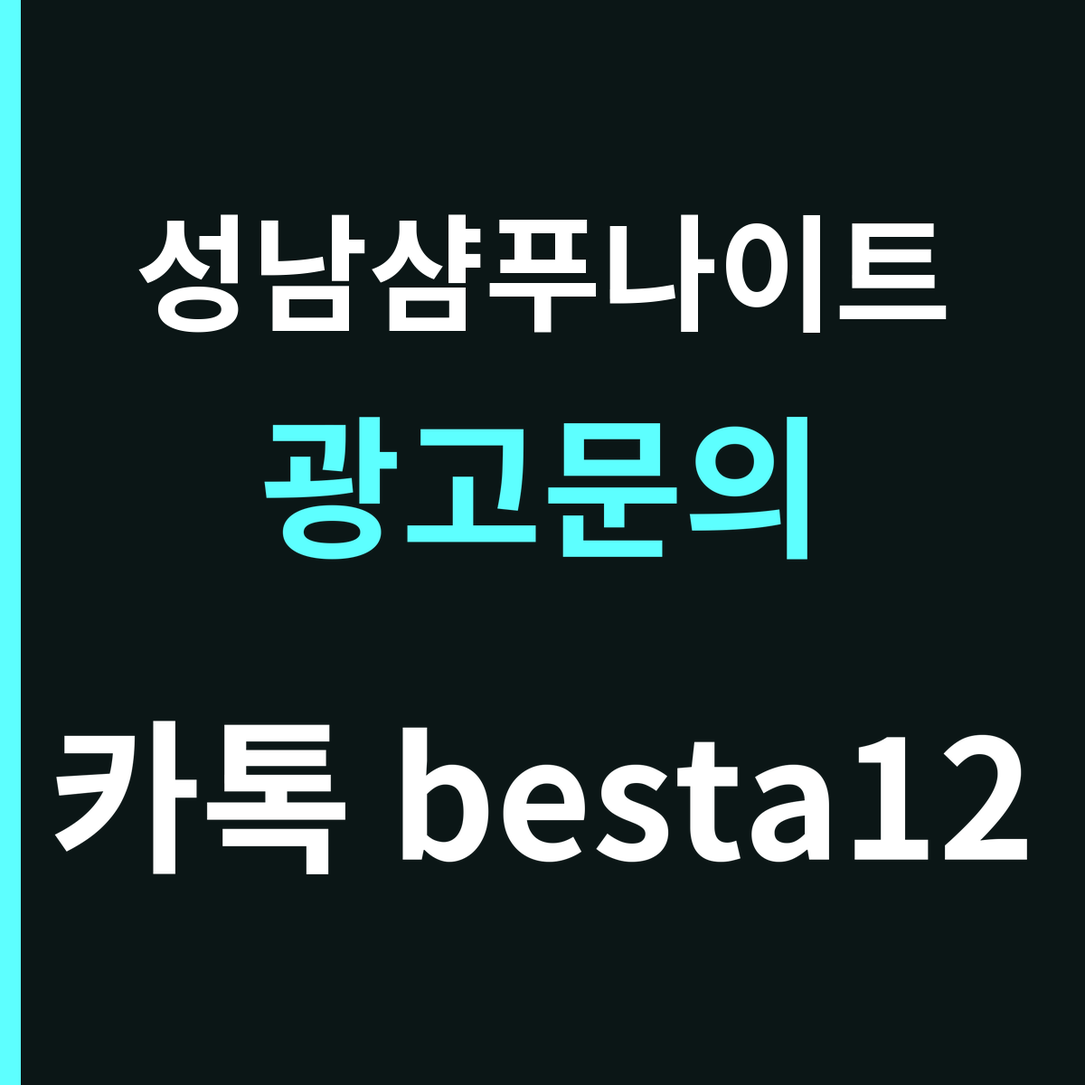
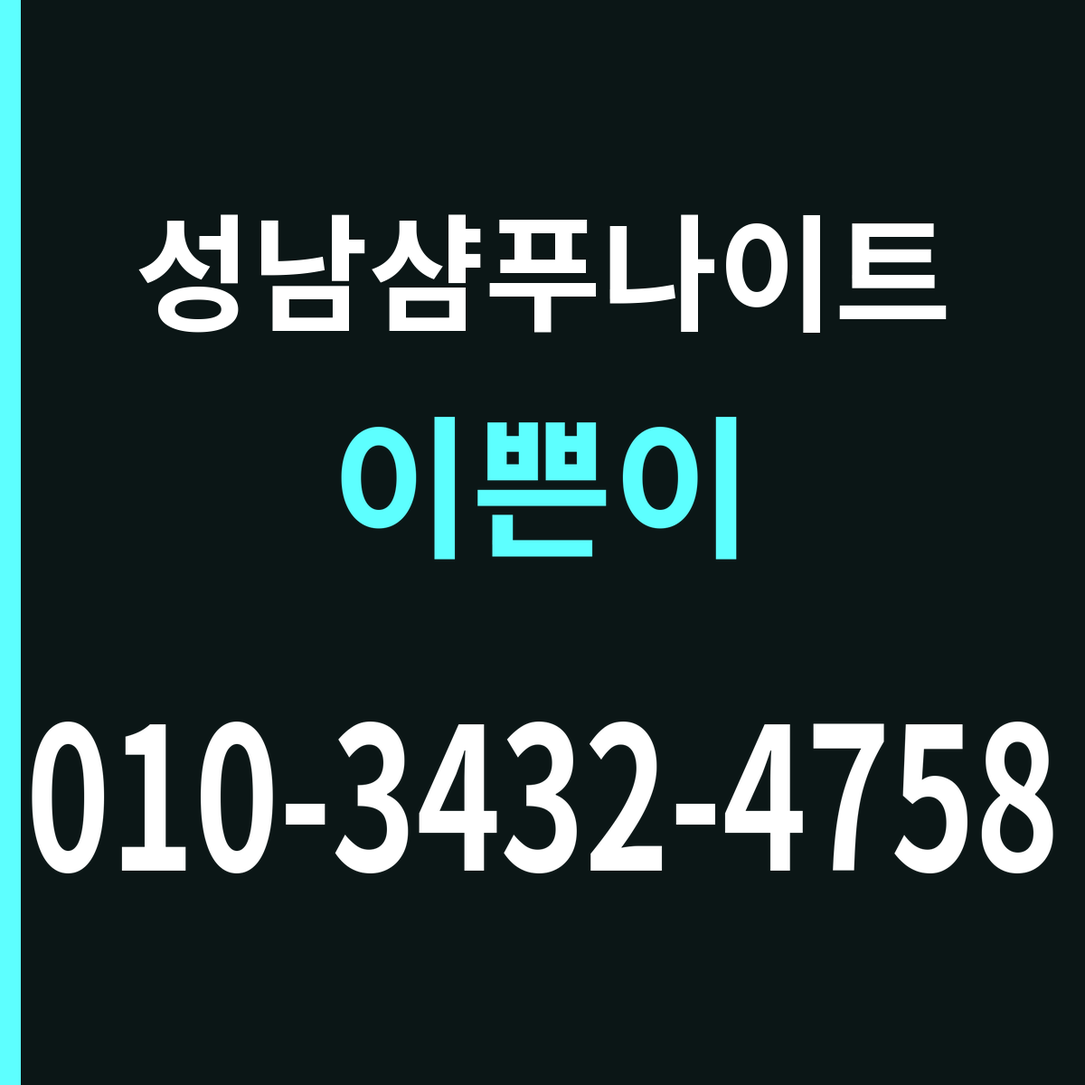
광고주 등록 — 성남샴푸나이트 이쁜이 (2026-09-04)

Changed region(s): [[0.0308, 0.6475, 0.9867, 0.8017], [0.2467, 0.37, 0.7708, 0.5242]]

diff --git a/night/seongnam-shampoo-night-1/index.html b/night/seongnam-shampoo-night-1/index.html
@@ -1,0 +1,159 @@
+<!doctype html>
+<html lang="ko">
+<head>
+<meta charset="utf-8">
+<meta name="viewport" content="width=device-width,initial-scale=1">
+<title>성남샴푸나이트 자리 잡기 전에 볼 것</title>
+<meta name="description" content="성남샴푸나이트 예약·좌석·영업시간·위치 안내. 경기 성남시 중원구 광명로 21 (성남동 3182). 문의 이쁜이 010-3432-4758">
+<link rel="canonical" href="https://n.nolcool.com/night/seongnam-shampoo-night-1/">
+<meta property="og:title" content="성남샴푸나이트 자리 잡기 전에 볼 것">
+<meta property="og:description" content="성남샴푸나이트 이용 안내 · 성남시 중원구">
+<meta property="og:type" content="article">
+<meta property="og:url" content="https://n.nolcool.com/night/seongnam-shampoo-night-1/">
+<script type="application/ld+json">{"@context":"https://schema.org","@type":"NightClub","name":"성남샴푸나이트","address":{"@type":"PostalAddress","streetAddress":"경기 성남시 중원구 광명로 21 (성남동 3182)","addressLocality":"성남시 중원구","addressCountry":"KR"},"telephone":"+82-10-3432-4758","openingHours":"Mo-Su 19:00-05:00","url":"https://n.nolcool.com/night/seongnam-shampoo-night-1/"}</script>
+<script type="application/ld+json">{"@context":"https://schema.org","@type":"FAQPage","mainEntity":[{"@type":"Question","name":"성남샴푸나이트 며칠 전에 연락드리면 되나요?","acceptedAnswer":{"@type":"Answer","text":"주말이라면 한 주 전쯤, 평일이라면 이삼 일 전이면 넉넉합니다. 성남샴푸나이트 이용이 처음이라면 이 항목부터 보십시오. 이 정도만 알아 두셔도 성남샴푸나이트 이용에는 충분합니다."}},{"@type":"Question","name":"기념일 자리도 되나요?","acceptedAnswer":{"@type":"Answer","text":"날짜와 인원만 정해 주시면 준비해 드립니다. 일행이 있으시면 성남샴푸나이트 에 미리 맞춰 두시면 편합니다. 특히 주말 성남샴푸나이트 는 이 부분에서 차이가 납니다."}},{"@type":"Question","name":"연락처가 어떻게 되나요?","acceptedAnswer":{"@type":"Answer","text":"010-3432-4758 (이쁜이) 로 전화 주시면 됩니다. 자세한 것은 성남샴푸나이트 방문 전에 확인해 두시는 편이 안전합니다. 모르시면 성남샴푸나이트 에 전화로 물어보는 편이 빠릅니다."}},{"@type":"Question","name":"여성 손님도 많나요?","acceptedAnswer":{"@type":"Answer","text":"성남시 중원구 쪽은 시간대별로 분위기가 갈립니다. 초저녁과 심야가 다릅니다. 성남샴푸나이트 를 처음 찾으시는 분들이 특히 많이 묻습니다. 성남샴푸나이트 가 처음이라 걱정하실 필요는 없습니다."}},{"@type":"Question","name":"드레스코드가 있나요?","acceptedAnswer":{"@type":"Answer","text":"반바지나 슬리퍼는 피하시는 편이 안전합니다. 헷갈리시면 성남샴푸나이트 로 전화해 물어보시는 것이 가장 빠릅니다. 성남시 중원구 는 시간대에 따라 조금씩 달라집니다."}},{"@type":"Question","name":"어떤 안내를 받을 수 있나요?","acceptedAnswer":{"@type":"Answer","text":"처음 오셨다면 말씀만 하시면 필요한 것을 안내해 줍니다. 성남샴푸나이트 사정에 따라 달라질 수 있으니 참고만 하십시오. 성남샴푸나이트 자리 사정은 그날 상황을 따릅니다."}},{"@type":"Question","name":"예약이 됐는지 어떻게 아나요?","acceptedAnswer":{"@type":"Answer","text":"이쁜이 010-3432-4758 로 연락하시면 확인해 드립니다. 성남시 중원구 를 찾는 분들이 이 점을 놓쳐 아쉬워하는 경우가 많습니다. 작은 차이가 성남샴푸나이트 에서의 만족을 크게 바꿉니다."}},{"@type":"Question","name":"성남샴푸나이트 방문 시간은 언제가 좋나요?","acceptedAnswer":{"@type":"Answer","text":"7시부터 열지만 분위기가 오르는 것은 밤 10시쯤부터입니다. 성남시 중원구 쪽은 사람이 몰리는 날 여유를 두시는 편이 좋습니다. 같이 가시는 분들과 성남샴푸나이트 일정을 미리 맞춰 두십시오."}},{"@type":"Question","name":"분위기가 어떤가요?","acceptedAnswer":{"@type":"Answer","text":"시간대에 따라 분위기가 달라집니다. 이 부분만 정해 두셔도 성남샴푸나이트 방문 준비는 거의 끝납니다. 일정이 정해지면 성남샴푸나이트 에 바로 말씀해 주십시오."}},{"@type":"Question","name":"연령 기준을 알려주세요","acceptedAnswer":{"@type":"Answer","text":"연령 확인 절차가 있습니다. 신분증 없이는 어렵습니다. 성남시 중원구 안에서도 곳마다 사정이 다릅니다. 준비물은 많지 않으니 성남샴푸나이트 방문에 부담 갖지 않으셔도 됩니다."}},{"@type":"Question","name":"성남샴푸나이트 보관 시설이 있나요?","acceptedAnswer":{"@type":"Answer","text":"성남샴푸나이트 는 방문 시 안내해 드립니다. 귀중품은 직접 챙기시는 편이 좋습니다. 성남샴푸나이트 는 늦은 시간에 상황이 달라질 수 있습니다. 성남샴푸나이트 현장에서 다시 물어보셔도 안내해 드립니다."}},{"@type":"Question","name":"어떤 자리가 좋은가요?","acceptedAnswer":{"@type":"Answer","text":"처음 오셨다면 중간 자리가 무난합니다. 미리 정해 두면 성남샴푸나이트 에서 그날 시간을 아낄 수 있습니다. 이 점을 알고 가시면 성남샴푸나이트 이용이 훨씬 수월합니다."}},{"@type":"Question","name":"성남샴푸나이트 예약 안 하면 못 들어가나요?","acceptedAnswer":{"@type":"Answer","text":"꼭 해야 하는 것은 아니지만, 자리를 고르고 싶으시면 예약이 훨씬 낫습니다. 성남샴푸나이트 이용이 처음이라면 이 항목부터 보십시오. 가시기 전에 성남샴푸나이트 에 한 번만 확인해 두시면 됩니다."}},{"@type":"Question","name":"당일 방문이 가능한가요?","acceptedAnswer":{"@type":"Answer","text":"성남샴푸나이트 는 당일 방문도 받습니다. 자리를 고르기는 어려울 수 있습니다. 일행이 있으시면 성남샴푸나이트 에 미리 맞춰 두시면 편합니다. 무엇보다 성남샴푸나이트 에 미리 연락해 두는 것이 편합니다."}},{"@type":"Question","name":"좌석 위치가 중요한가요?","acceptedAnswer":{"@type":"Answer","text":"성남샴푸나이트 는 자리마다 분위기가 갈립니다. 조용한 쪽을 원하시면 미리 알려주세요. 자세한 것은 성남샴푸나이트 방문 전에 확인해 두시는 편이 안전합니다. 이 정도만 알아 두셔도 성남샴푸나이트 이용에는 충분합니다."}},{"@type":"Question","name":"현금만 받나요?","acceptedAnswer":{"@type":"Answer","text":"현장 안내를 따르시면 됩니다. 미리 확인해 두십시오. 성남샴푸나이트 를 처음 찾으시는 분들이 특히 많이 묻습니다. 특히 주말 성남샴푸나이트 는 이 부분에서 차이가 납니다."}},{"@type":"Question","name":"한 명이어도 되나요?","acceptedAnswer":{"@type":"Answer","text":"혼자 오시는 분도 있습니다. 다만 자리 배정이 달라질 수 있습니다. 헷갈리시면 성남샴푸나이트 로 전화해 물어보시는 것이 가장 빠릅니다. 모르시면 성남샴푸나이트 에 전화로 물어보는 편이 빠릅니다."}},{"@type":"Question","name":"주의할 점이 있나요?","acceptedAnswer":{"@type":"Answer","text":"신분증, 인원, 도착 시간 이 세 가지만 정해 두시면 됩니다. 성남샴푸나이트 사정에 따라 달라질 수 있으니 참고만 하십시오. 성남샴푸나이트 가 처음이라 걱정하실 필요는 없습니다."}},{"@type":"Question","name":"다른 자리로 갈 수 있나요?","acceptedAnswer":{"@type":"Answer","text":"자리 사정을 봐서 안내해 드립니다. 성남시 중원구 를 찾는 분들이 이 점을 놓쳐 아쉬워하는 경우가 많습니다. 성남시 중원구 는 시간대에 따라 조금씩 달라집니다."}},{"@type":"Question","name":"새벽에도 들어갈 수 있나요?","acceptedAnswer":{"@type":"Answer","text":"자리가 남아 있으면 가능합니다. 성남샴푸나이트 에 미리 연락해 두시면 확실합니다. 성남시 중원구 쪽은 사람이 몰리는 날 여유를 두시는 편이 좋습니다. 성남샴푸나이트 자리 사정은 그날 상황을 따릅니다."}}]}</script>
+<script type="application/ld+json">{"@context":"https://schema.org","@type":"BreadcrumbList","itemListElement":[{"@type":"ListItem","position":1,"name":"홈","item":"https://n.nolcool.com/"},{"@type":"ListItem","position":2,"name":"나이트 안내","item":"https://n.nolcool.com/night/"},{"@type":"ListItem","position":3,"name":"성남샴푸나이트","item":"https://n.nolcool.com/night/seongnam-shampoo-night-1/"}]}</script>
+<style>
+:root{--bg:#0d0f14;--ink:#e8ecf2;--dim:#c3ccd8;--line:#212734;--key:#7fd3ff}
+*{box-sizing:border-box}
+body{margin:0;background:var(--bg);color:var(--ink);font-family:'Malgun Gothic','맑은 고딕',sans-serif;line-height:1.8}
+.wrap{max-width:760px;margin:0 auto;padding:28px 18px 130px}
+nav.bc{font-size:13px;color:#8fa3bd;margin-bottom:16px}
+nav.bc a{color:#8fa3bd;text-decoration:none}
+h1{font-size:25px;line-height:1.4;margin:0 0 16px}
+.lead{color:var(--dim);margin:0 0 22px}
+table{width:100%;border-collapse:collapse;margin:0 0 26px}
+th,td{padding:11px 8px;border-bottom:1px solid var(--line);text-align:left;font-size:15px}
+th{color:#8fa3bd;width:32%;font-weight:600}
+.qa{margin:0 0 20px}
+.qa h2{font-size:17px;margin:0 0 6px;color:var(--key)}
+.qa p{margin:0;color:var(--dim)}
+h2.more{font-size:18px;margin:34px 0 10px;color:var(--key)}
+ul{margin:0;padding-left:18px}
+li{margin:0 0 7px}
+a{color:var(--key)}
+.bar{position:fixed;left:0;right:0;bottom:0;background:#1b6ef3;padding:15px;text-align:center;font-size:18px;font-weight:700}
+.bar a{color:#fff;text-decoration:none}
+</style>
+
+<meta property="og:image" content="https://n.nolcool.com/og/auto-seongnam-shampoo.png" />
+<meta property="og:image:width" content="1200" />
+<meta property="og:image:height" content="1200" />
+</head>
+<body>
+<div class="wrap" id="main">
+<nav class="bc"><a href="/">홈</a> › <a href="/night/">안내 목록</a> › 성남샴푸나이트</nav>
+<h1>성남샴푸나이트 자리 잡기 전에 볼 것</h1>
+<img src="/og/auto-seongnam-shampoo.png" width="1200" height="1200" alt="성남샴푸나이트 예약문의 이쁜이 010-3432-4758" decoding="async" style="display:block;width:100%;max-width:520px;height:auto;margin:0 auto 18px" />
+
+<p class="lead">성남시 중원구에 있는 성남샴푸나이트의 이용 안내입니다. 궁금한 것부터 찾아보십시오.</p>
+
+<table>
+<tr><th>이름</th><td>성남샴푸나이트</td></tr>
+<tr><th>있는 자리</th><td>경기 성남시 중원구 광명로 21 (성남동 3182)</td></tr>
+<tr><th>시군구</th><td>성남시 중원구</td></tr>
+<tr><th>문 여는 시간</th><td>19:00 시작 · 05:00 마감</td></tr>
+<tr><th>물어보기</th><td>이쁜이 010-3432-4758</td></tr>
+</table>
+
+<section class="qa">
+<h2>성남샴푸나이트 며칠 전에 연락드리면 되나요?</h2>
+<p>주말이라면 한 주 전쯤, 평일이라면 이삼 일 전이면 넉넉합니다. 성남샴푸나이트 이용이 처음이라면 이 항목부터 보십시오. 이 정도만 알아 두셔도 성남샴푸나이트 이용에는 충분합니다.</p>
+</section>
+<section class="qa">
+<h2>기념일 자리도 되나요?</h2>
+<p>날짜와 인원만 정해 주시면 준비해 드립니다. 일행이 있으시면 성남샴푸나이트 에 미리 맞춰 두시면 편합니다. 특히 주말 성남샴푸나이트 는 이 부분에서 차이가 납니다.</p>
+</section>
+<section class="qa">
+<h2>연락처가 어떻게 되나요?</h2>
+<p>010-3432-4758 (이쁜이) 로 전화 주시면 됩니다. 자세한 것은 성남샴푸나이트 방문 전에 확인해 두시는 편이 안전합니다. 모르시면 성남샴푸나이트 에 전화로 물어보는 편이 빠릅니다.</p>
+</section>
+<section class="qa">
+<h2>여성 손님도 많나요?</h2>
+<p>성남시 중원구 쪽은 시간대별로 분위기가 갈립니다. 초저녁과 심야가 다릅니다. 성남샴푸나이트 를 처음 찾으시는 분들이 특히 많이 묻습니다. 성남샴푸나이트 가 처음이라 걱정하실 필요는 없습니다.</p>
+</section>
+<section class="qa">
+<h2>드레스코드가 있나요?</h2>
+<p>반바지나 슬리퍼는 피하시는 편이 안전합니다. 헷갈리시면 성남샴푸나이트 로 전화해 물어보시는 것이 가장 빠릅니다. 성남시 중원구 는 시간대에 따라 조금씩 달라집니다.</p>
+</section>
+<section class="qa">
+<h2>어떤 안내를 받을 수 있나요?</h2>
+<p>처음 오셨다면 말씀만 하시면 필요한 것을 안내해 줍니다. 성남샴푸나이트 사정에 따라 달라질 수 있으니 참고만 하십시오. 성남샴푸나이트 자리 사정은 그날 상황을 따릅니다.</p>
+</section>
+<section class="qa">
+<h2>예약이 됐는지 어떻게 아나요?</h2>
+<p>이쁜이 010-3432-4758 로 연락하시면 확인해 드립니다. 성남시 중원구 를 찾는 분들이 이 점을 놓쳐 아쉬워하는 경우가 많습니다. 작은 차이가 성남샴푸나이트 에서의 만족을 크게 바꿉니다.</p>
+</section>
+<section class="qa">
+<h2>성남샴푸나이트 방문 시간은 언제가 좋나요?</h2>
+<p>7시부터 열지만 분위기가 오르는 것은 밤 10시쯤부터입니다. 성남시 중원구 쪽은 사람이 몰리는 날 여유를 두시는 편이 좋습니다. 같이 가시는 분들과 성남샴푸나이트 일정을 미리 맞춰 두십시오.</p>
+</section>
+<section class="qa">
+<h2>분위기가 어떤가요?</h2>
+<p>시간대에 따라 분위기가 달라집니다. 이 부분만 정해 두셔도 성남샴푸나이트 방문 준비는 거의 끝납니다. 일정이 정해지면 성남샴푸나이트 에 바로 말씀해 주십시오.</p>
+</section>
+<section class="qa">
+<h2>연령 기준을 알려주세요</h2>
+<p>연령 확인 절차가 있습니다. 신분증 없이는 어렵습니다. 성남시 중원구 안에서도 곳마다 사정이 다릅니다. 준비물은 많지 않으니 성남샴푸나이트 방문에 부담 갖지 않으셔도 됩니다.</p>
+</section>
+<section class="qa">
+<h2>성남샴푸나이트 보관 시설이 있나요?</h2>
+<p>성남샴푸나이트 는 방문 시 안내해 드립니다. 귀중품은 직접 챙기시는 편이 좋습니다. 성남샴푸나이트 는 늦은 시간에 상황이 달라질 수 있습니다. 성남샴푸나이트 현장에서 다시 물어보셔도 안내해 드립니다.</p>
+</section>
+<section class="qa">
+<h2>어떤 자리가 좋은가요?</h2>
+<p>처음 오셨다면 중간 자리가 무난합니다. 미리 정해 두면 성남샴푸나이트 에서 그날 시간을 아낄 수 있습니다. 이 점을 알고 가시면 성남샴푸나이트 이용이 훨씬 수월합니다.</p>
+</section>
+<section class="qa">
+<h2>성남샴푸나이트 예약 안 하면 못 들어가나요?</h2>
+<p>꼭 해야 하는 것은 아니지만, 자리를 고르고 싶으시면 예약이 훨씬 낫습니다. 성남샴푸나이트 이용이 처음이라면 이 항목부터 보십시오. 가시기 전에 성남샴푸나이트 에 한 번만 확인해 두시면 됩니다.</p>
+</section>
+<section class="qa">
+<h2>당일 방문이 가능한가요?</h2>
+<p>성남샴푸나이트 는 당일 방문도 받습니다. 자리를 고르기는 어려울 수 있습니다. 일행이 있으시면 성남샴푸나이트 에 미리 맞춰 두시면 편합니다. 무엇보다 성남샴푸나이트 에 미리 연락해 두는 것이 편합니다.</p>
+</section>
+<section class="qa">
+<h2>좌석 위치가 중요한가요?</h2>
+<p>성남샴푸나이트 는 자리마다 분위기가 갈립니다. 조용한 쪽을 원하시면 미리 알려주세요. 자세한 것은 성남샴푸나이트 방문 전에 확인해 두시는 편이 안전합니다. 이 정도만 알아 두셔도 성남샴푸나이트 이용에는 충분합니다.</p>
+</section>
+<section class="qa">
+<h2>현금만 받나요?</h2>
+<p>현장 안내를 따르시면 됩니다. 미리 확인해 두십시오. 성남샴푸나이트 를 처음 찾으시는 분들이 특히 많이 묻습니다. 특히 주말 성남샴푸나이트 는 이 부분에서 차이가 납니다.</p>
+</section>
+<section class="qa">
+<h2>한 명이어도 되나요?</h2>
+<p>혼자 오시는 분도 있습니다. 다만 자리 배정이 달라질 수 있습니다. 헷갈리시면 성남샴푸나이트 로 전화해 물어보시는 것이 가장 빠릅니다. 모르시면 성남샴푸나이트 에 전화로 물어보는 편이 빠릅니다.</p>
+</section>
+<section class="qa">
+<h2>주의할 점이 있나요?</h2>
+<p>신분증, 인원, 도착 시간 이 세 가지만 정해 두시면 됩니다. 성남샴푸나이트 사정에 따라 달라질 수 있으니 참고만 하십시오. 성남샴푸나이트 가 처음이라 걱정하실 필요는 없습니다.</p>
+</section>
+<section class="qa">
+<h2>다른 자리로 갈 수 있나요?</h2>
+<p>자리 사정을 봐서 안내해 드립니다. 성남시 중원구 를 찾는 분들이 이 점을 놓쳐 아쉬워하는 경우가 많습니다. 성남시 중원구 는 시간대에 따라 조금씩 달라집니다.</p>
+</section>
+<section class="qa">
+<h2>새벽에도 들어갈 수 있나요?</h2>
+<p>자리가 남아 있으면 가능합니다. 성남샴푸나이트 에 미리 연락해 두시면 확실합니다. 성남시 중원구 쪽은 사람이 몰리는 날 여유를 두시는 편이 좋습니다. 성남샴푸나이트 자리 사정은 그날 상황을 따릅니다.</p>
+</section>
+
+<h2 class="more">한 줄 정리</h2>
+<p class="lead">성남샴푸나이트 방문을 앞두고 계시다면 위 항목을 한 번 훑어보시기 바랍니다. 연락은 이쁜이 010-3432-4758 입니다.</p>
+
+<h2 class="more">근처 다른 안내</h2>
+<ul>
+<li>· <a href="/night/changwon-lululala-night/">창원룰루랄라나이트</a></li>
+<li>· <a href="/night/sangbong-hangukgwan-night/">상봉동한국관나이트</a></li>
+<li>· <a href="/night/dapsimni-miracle-night/">답십리미라클나이트</a></li>
+<li>· <a href="/night/daejeon-seven-night/">대전세븐나이트</a></li>
+<li>· <a href="/night/ulsan-champion-night/">울산챔피언나이트</a></li>
+<li>· <a href="/night/suyu-shampoo-night/">수유샴푸나이트</a></li>
+<li>· <a href="/night/busan-asiad-night/">부산아시아드나이트</a></li>
+<li>· <a href="/night/bulgwang-hobak-night/">불광동호박나이트</a></li>
+<li>· <a href="/night/sillim-grandprix-night/">신림그랑프리나이트</a></li>
+<li><a href="/night/">나이트 안내 전체 목록</a></li>
+</ul>
+</div>
+<div class="bar"><a href="tel:01034324758">📞 상담 이쁜이 010-3432-4758</a></div>
+</body>
+</html>

diff --git a/night/seongnam-shampoo-night/index.html b/night/seongnam-shampoo-night/index.html
@@ -10,8 +10,8 @@
 <meta property="og:description" content="성남샴푸나이트 예약·좌석·영업시간·위치 안내. 경기 성남시 중원구 광명로 21 (성남동 3182) 성남샴푸나이트 기본 정보와 자주 묻는 질문 안내드립니다.">
 <meta property="og:type" content="article">
 <meta property="og:url" content="https://n.nolcool.com/night/seongnam-shampoo-night/">
-<script type="application/ld+json">{"@context":"https://schema.org","@type":"NightClub","name":"성남샴푸나이트","address":{"@type":"PostalAddress","streetAddress":"경기 성남시 중원구 광명로 21 (성남동 3182)","addressLocality":"경기 성남시","addressCountry":"KR"},"openingHours":"Mo-Su 19:00-05:00","url":"https://n.nolcool.com/night/seongnam-shampoo-night/"}</script>
-<script type="application/ld+json">{"@context":"https://schema.org","@type":"FAQPage","mainEntity":[{"@type":"Question","name":"대기 순서가 있나요?","acceptedAnswer":{"@type":"Answer","text":"평일에는 대기가 거의 생기지 않습니다. 주말 심야는 생깁니다."}},{"@type":"Question","name":"처음 오는 사람에게 조언을 주세요","acceptedAnswer":{"@type":"Answer","text":"광고 문의처 에게 처음이라고 말씀하시면 자세히 안내해 드립니다. 많이 챙길 것 없습니다."}},{"@type":"Question","name":"성남샴푸나이트 쉬는 날이 정해져 있나요?","acceptedAnswer":{"@type":"Answer","text":"방문하실 날짜를 말씀해 주시면 그날 상황을 알려 드립니다. 날짜별로 안내드립니다."}},{"@type":"Question","name":"배정 기준이 있나요?","acceptedAnswer":{"@type":"Answer","text":"기준은 인원과 도착 시각, 예약 여부입니다. 권해 드립니다."}},{"@type":"Question","name":"분위기가 어느 층에 맞나요?","acceptedAnswer":{"@type":"Answer","text":"분위기가 궁금하시면 카카오톡 besta12 로 물어보십시오. 분위기가 매번 다릅니다."}},{"@type":"Question","name":"비흡연자도 괜찮을까요?","acceptedAnswer":{"@type":"Answer","text":"규정이 궁금하시면 카카오톡 besta12 로 미리 물어보십시오. 정해진 곳에서만 피우십시오."}},{"@type":"Question","name":"짐은 어디에 두나요?","acceptedAnswer":{"@type":"Answer","text":"무엇을 어디에 두실지 헷갈리시면 물어보시면 됩니다. 자리를 넉넉히 잡아 드립니다."}},{"@type":"Question","name":"성남샴푸나이트 나이 확인을 하나요?","acceptedAnswer":{"@type":"Answer","text":"나이 확인 절차가 있어 증명할 것이 있어야 합니다. 입구에서 확인합니다."}},{"@type":"Question","name":"새벽까지 하나요?","acceptedAnswer":{"@type":"Answer","text":"요일에 따라 마감이 조금씩 다를 수 있습니다. 그날 사정에 따릅니다."}},{"@type":"Question","name":"성남샴푸나이트 몇 명까지 들어가나요?","acceptedAnswer":{"@type":"Answer","text":"단체가 들어갈 수 있는지는 미리 확인이 필요합니다. 미리 말씀하시면 조율합니다."}},{"@type":"Question","name":"처음이라 도움이 필요한데 가능한가요?","acceptedAnswer":{"@type":"Answer","text":"처음 오셨다면 말씀만 하시면 필요한 것을 안내해 줍니다. 요청은 편하게 하십시오."}},{"@type":"Question","name":"전화하면 재촉하시나요?","acceptedAnswer":{"@type":"Answer","text":"재촉하지 않습니다. 궁금한 것만 확인하고 끊으셔도 됩니다. 재촉하지 않습니다."}},{"@type":"Question","name":"인원에 따라 자리가 달라지나요?","acceptedAnswer":{"@type":"Answer","text":"인원에 따라 권해 드리는 구역이 달라집니다. 도착 시간도 맞추십시오."}},{"@type":"Question","name":"성남샴푸나이트 시간대별 진행이 다른가요?","acceptedAnswer":{"@type":"Answer","text":"그날 진행이 궁금하시면 카카오톡 besta12 로 물어보십시오. 떨어진 자리는 대화에 좋습니다."}},{"@type":"Question","name":"성남샴푸나이트 더운 날에 가도 괜찮나요?","acceptedAnswer":{"@type":"Answer","text":"더운 날에도 실내는 쾌적하게 유지됩니다. 방문에 무리 없습니다."}},{"@type":"Question","name":"이 지역 특징이 있나요?","acceptedAnswer":{"@type":"Answer","text":"이 지역은 늦은 시간까지 사람이 있는 편입니다. 천천히 정하셔도 됩니다."}},{"@type":"Question","name":"혼자 방문해도 되나요?","acceptedAnswer":{"@type":"Answer","text":"혼자시라면 통로 쪽이 드나들기 편합니다. 혼자 오시는 분도 많습니다."}},{"@type":"Question","name":"지방에서 올라가도 되나요?","acceptedAnswer":{"@type":"Answer","text":"귀가 방법까지 미리 정해 두시는 편이 좋습니다. 미리 잡아 두시길 권합니다."}},{"@type":"Question","name":"성남샴푸나이트 사진이 잘 나오는 편인가요?","acceptedAnswer":{"@type":"Answer","text":"사진을 남기실 계획이면 밝은 쪽이 유리합니다. 진행에 따라 바뀌기도 합니다."}},{"@type":"Question","name":"성남샴푸나이트 미리 내야 하는 금액이 있나요?","acceptedAnswer":{"@type":"Answer","text":"금액은 이용 방식에 따라 달라집니다. 카카오톡 besta12 로 문의해 주십시오. 담당자가 정확합니다."}}]}</script>
+<script type="application/ld+json">{"@context":"https://schema.org","@type":"NightClub","name":"성남샴푸나이트","telephone":"+82-10-3432-4758","address":{"@type":"PostalAddress","streetAddress":"경기 성남시 중원구 광명로 21 (성남동 3182)","addressLocality":"경기 성남시","addressCountry":"KR"},"openingHours":"Mo-Su 19:00-05:00","url":"https://n.nolcool.com/night/seongnam-shampoo-night/"}</script>
+<script type="application/ld+json">{"@context":"https://schema.org","@type":"FAQPage","mainEntity":[{"@type":"Question","name":"대기 순서가 있나요?","acceptedAnswer":{"@type":"Answer","text":"평일에는 대기가 거의 생기지 않습니다. 주말 심야는 생깁니다."}},{"@type":"Question","name":"처음 오는 사람에게 조언을 주세요","acceptedAnswer":{"@type":"Answer","text":"광고 문의처 에게 처음이라고 말씀하시면 자세히 안내해 드립니다. 많이 챙길 것 없습니다."}},{"@type":"Question","name":"성남샴푸나이트 쉬는 날이 정해져 있나요?","acceptedAnswer":{"@type":"Answer","text":"방문하실 날짜를 말씀해 주시면 그날 상황을 알려 드립니다. 날짜별로 안내드립니다."}},{"@type":"Question","name":"배정 기준이 있나요?","acceptedAnswer":{"@type":"Answer","text":"기준은 인원과 도착 시각, 예약 여부입니다. 권해 드립니다."}},{"@type":"Question","name":"분위기가 어느 층에 맞나요?","acceptedAnswer":{"@type":"Answer","text":"분위기가 궁금하시면 이쁜이 010-3432-4758 로 물어보십시오. 분위기가 매번 다릅니다."}},{"@type":"Question","name":"비흡연자도 괜찮을까요?","acceptedAnswer":{"@type":"Answer","text":"규정이 궁금하시면 이쁜이 010-3432-4758 로 미리 물어보십시오. 정해진 곳에서만 피우십시오."}},{"@type":"Question","name":"짐은 어디에 두나요?","acceptedAnswer":{"@type":"Answer","text":"무엇을 어디에 두실지 헷갈리시면 물어보시면 됩니다. 자리를 넉넉히 잡아 드립니다."}},{"@type":"Question","name":"성남샴푸나이트 나이 확인을 하나요?","acceptedAnswer":{"@type":"Answer","text":"나이 확인 절차가 있어 증명할 것이 있어야 합니다. 입구에서 확인합니다."}},{"@type":"Question","name":"새벽까지 하나요?","acceptedAnswer":{"@type":"Answer","text":"요일에 따라 마감이 조금씩 다를 수 있습니다. 그날 사정에 따릅니다."}},{"@type":"Question","name":"성남샴푸나이트 몇 명까지 들어가나요?","acceptedAnswer":{"@type":"Answer","text":"단체가 들어갈 수 있는지는 미리 확인이 필요합니다. 미리 말씀하시면 조율합니다."}},{"@type":"Question","name":"처음이라 도움이 필요한데 가능한가요?","acceptedAnswer":{"@type":"Answer","text":"처음 오셨다면 말씀만 하시면 필요한 것을 안내해 줍니다. 요청은 편하게 하십시오."}},{"@type":"Question","name":"전화하면 재촉하시나요?","acceptedAnswer":{"@type":"Answer","text":"재촉하지 않습니다. 궁금한 것만 확인하고 끊으셔도 됩니다. 재촉하지 않습니다."}},{"@type":"Question","name":"인원에 따라 자리가 달라지나요?","acceptedAnswer":{"@type":"Answer","text":"인원에 따라 권해 드리는 구역이 달라집니다. 도착 시간도 맞추십시오."}},{"@type":"Question","name":"성남샴푸나이트 시간대별 진행이 다른가요?","acceptedAnswer":{"@type":"Answer","text":"그날 진행이 궁금하시면 이쁜이 010-3432-4758 로 물어보십시오. 떨어진 자리는 대화에 좋습니다."}},{"@type":"Question","name":"성남샴푸나이트 더운 날에 가도 괜찮나요?","acceptedAnswer":{"@type":"Answer","text":"더운 날에도 실내는 쾌적하게 유지됩니다. 방문에 무리 없습니다."}},{"@type":"Question","name":"이 지역 특징이 있나요?","acceptedAnswer":{"@type":"Answer","text":"이 지역은 늦은 시간까지 사람이 있는 편입니다. 천천히 정하셔도 됩니다."}},{"@type":"Question","name":"혼자 방문해도 되나요?","acceptedAnswer":{"@type":"Answer","text":"혼자시라면 통로 쪽이 드나들기 편합니다. 혼자 오시는 분도 많습니다."}},{"@type":"Question","name":"지방에서 올라가도 되나요?","acceptedAnswer":{"@type":"Answer","text":"귀가 방법까지 미리 정해 두시는 편이 좋습니다. 미리 잡아 두시길 권합니다."}},{"@type":"Question","name":"성남샴푸나이트 사진이 잘 나오는 편인가요?","acceptedAnswer":{"@type":"Answer","text":"사진을 남기실 계획이면 밝은 쪽이 유리합니다. 진행에 따라 바뀌기도 합니다."}},{"@type":"Question","name":"성남샴푸나이트 미리 내야 하는 금액이 있나요?","acceptedAnswer":{"@type":"Answer","text":"금액은 이용 방식에 따라 달라집니다. 이쁜이 010-3432-4758 로 문의해 주십시오. 담당자가 정확합니다."}}]}</script>
 <script type="application/ld+json">{"@context":"https://schema.org","@type":"BreadcrumbList","itemListElement":[{"@type":"ListItem","position":1,"name":"홈","item":"https://n.nolcool.com/"},{"@type":"ListItem","position":2,"name":"나이트 안내","item":"https://n.nolcool.com/night/"},{"@type":"ListItem","position":3,"name":"성남샴푸나이트","item":"https://n.nolcool.com/night/seongnam-shampoo-night/"}]}</script>
 <style>
 :root{--bg:#0d0f14;--ink:#e8ecf2;--dim:#c3ccd8;--line:#212734;--key:#7fd3ff}
@@ -46,7 +46,7 @@ a{color:var(--key)}
 <div class="wrap" id="main">
 <nav class="bc"><a href="/">홈</a> › <a href="/night/">나이트 목록</a> › 성남샴푸나이트</nav>
 <h1>성남샴푸나이트 기본 정보와 자주 묻는 질문</h1>
-<img src="/og/auto-seongnam-shampoo.png" width="1200" height="1200" alt="성남샴푸나이트 광고문의" decoding="async" style="display:block;width:100%;max-width:520px;height:auto;margin:0 auto 18px" />
+<img src="/og/auto-seongnam-shampoo.png" width="1200" height="1200" alt="성남샴푸나이트 이쁜이 010-3432-4758" decoding="async" style="display:block;width:100%;max-width:520px;height:auto;margin:0 auto 18px" />
 
 <p class="lead">성남샴푸나이트 를 찾으시는 길과 이용 방법을 함께 안내드립니다. 중요한 것만 앞에 두었습니다.</p>
 
@@ -55,7 +55,7 @@ a{color:var(--key)}
 <tr><th>있는 자리</th><td>경기 성남시 중원구 광명로 21 (성남동 3182)</td></tr>
 <tr><th>시군구</th><td>경기 성남시</td></tr>
 <tr><th>문 여는 시간</th><td>저녁 7시 개장 · 익일 05시 마감</td></tr>
-<tr><th>물어보기</th><td>광고 자리 안내 카카오톡 besta12</td></tr>
+<tr><th>물어보기</th><td>이쁜이 010-3432-4758</td></tr>
 </table>
 
 <section class="qa">
@@ -76,11 +76,11 @@ a{color:var(--key)}
 </section>
 <section class="qa">
 <h2>분위기가 어느 층에 맞나요?</h2>
-<p>분위기가 궁금하시면 카카오톡 besta12 로 물어보십시오. 분위기가 매번 다릅니다.</p>
+<p>분위기가 궁금하시면 이쁜이 010-3432-4758 로 물어보십시오. 분위기가 매번 다릅니다.</p>
 </section>
 <section class="qa">
 <h2>비흡연자도 괜찮을까요?</h2>
-<p>규정이 궁금하시면 카카오톡 besta12 로 미리 물어보십시오. 정해진 곳에서만 피우십시오.</p>
+<p>규정이 궁금하시면 이쁜이 010-3432-4758 로 미리 물어보십시오. 정해진 곳에서만 피우십시오.</p>
 </section>
 <section class="qa">
 <h2>짐은 어디에 두나요?</h2>
@@ -112,7 +112,7 @@ a{color:var(--key)}
 </section>
 <section class="qa">
 <h2>시간대별 진행이 다른가요?</h2>
-<p>그날 진행이 궁금하시면 카카오톡 besta12 로 물어보십시오. 떨어진 자리는 대화에 좋습니다.</p>
+<p>그날 진행이 궁금하시면 이쁜이 010-3432-4758 로 물어보십시오. 떨어진 자리는 대화에 좋습니다.</p>
 </section>
 <section class="qa">
 <h2>더운 날에 가도 괜찮나요?</h2>
@@ -136,11 +136,11 @@ a{color:var(--key)}
 </section>
 <section class="qa">
 <h2>성남샴푸나이트 미리 내야 하는 금액이 있나요?</h2>
-<p>금액은 이용 방식에 따라 달라집니다. 카카오톡 besta12 로 문의해 주십시오. 담당자가 정확합니다.</p>
+<p>금액은 이용 방식에 따라 달라집니다. 이쁜이 010-3432-4758 로 문의해 주십시오. 담당자가 정확합니다.</p>
 </section>
 
 <h2 class="more">덧붙이는 말</h2>
-<p class="lead">길게 볼 것 없습니다. 카카오톡 besta12 로 연락 주시면 남은 부분을 안내해 드립니다.</p>
+<p class="lead">길게 볼 것 없습니다. 이쁜이 010-3432-4758 로 연락 주시면 남은 부분을 안내해 드립니다.</p>
 
 <h2 class="more">주변 안내 목록</h2>
 <ul>
@@ -156,7 +156,7 @@ a{color:var(--key)}
 <li><a href="/night/">전체 목록 보기</a></li>
 </ul>
 </div>
-<div class="bar">💬 광고 자리 안내 — 카톡 besta12</div>
+<div class="bar"><a href="tel:01034324758">📞 문의 이쁜이 010-3432-4758</a></div>
 
 <section class="guide-more">
 <h2>자리를 정할 때</h2>
